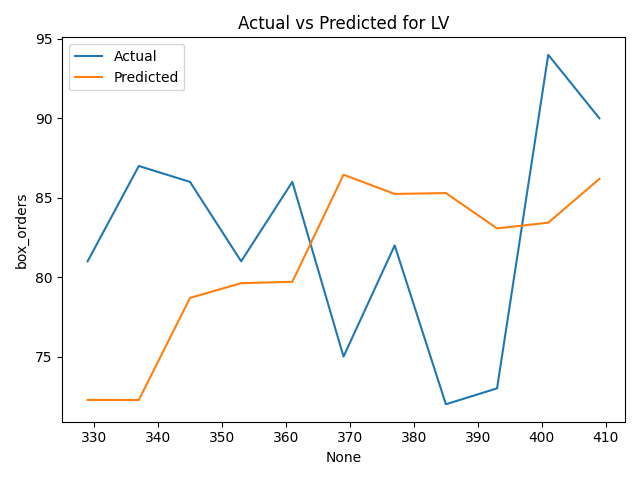
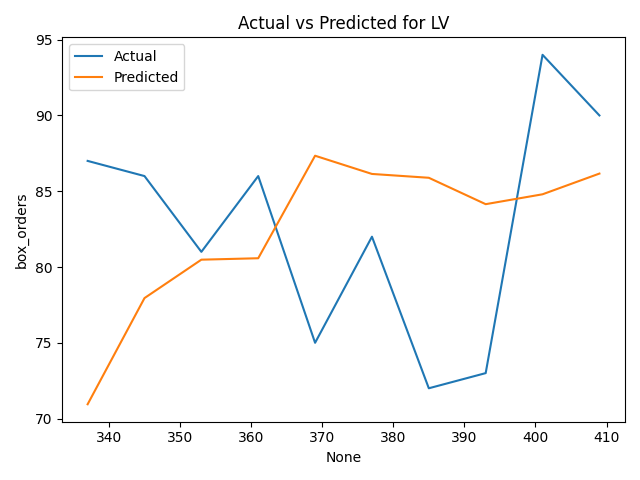
added dummy regressor

diff --git a/main.py b/main.py
@@ -168,7 +168,7 @@ def RF_forecast(df, box_types, features, target):
 
         # calculate rolling average of all features and target 1, 2, 4, 6, 8, 12 weeks ago without the current week
         # window_size = 2
-        for window_size in [1, 2, 4]:
+        for window_size in [1, 4]:
             df_i[f'{target}_rolling_mean_{window_size}w'] = df_i[target].shift(1).rolling(window=window_size, min_periods=1).mean()
             for feature in [x for x in features if x != 'week']:
                 # Ensure the feature column exists before trying to calculate rolling mean
@@ -189,7 +189,7 @@ def RF_forecast(df, box_types, features, target):
         test_df = df_i.iloc[int(len(df_i) * 0.8):]
 
         # train Random Forest regressor
-        rf_regressor = RandomForestRegressor(n_estimators=1000, random_state=42, max_depth=5)
+        rf_regressor = RandomForestRegressor(n_estimators=1000, random_state=42, max_depth=10)
         rf_regressor.fit(train_df[rolling_features + features].drop(columns=leaky_features).drop(columns='week'), train_df[target])
 
         # predict on test set
@@ -197,6 +197,12 @@ def RF_forecast(df, box_types, features, target):
 
         # also assign to predicted_box_orders
         test_df['predicted_box_orders'] = test_df['predicted_box_orders_' + box_type]
+
+        # add a dummy regressor equal to the shifted target
+        test_df['dummy_regressor'] = test_df[target].shift(1)
+
+        # drop na
+        test_df = test_df.dropna()
 
         # calculate MAE
         mae = mean_absolute_error(test_df[target], test_df['predicted_box_orders_' + box_type])
@@ -267,6 +273,7 @@ def RF_forecast(df, box_types, features, target):
     # plot actual vs predicted
     sns.lineplot(data=test_df_concat, x=test_df_concat.index, y=target, label='Actual')
     sns.lineplot(data=test_df_concat, x=test_df_concat.index, y='predicted_box_orders_concat', label='Predicted')
+    sns.lineplot(data=test_df_concat, x=test_df_concat.index, y='dummy_regressor', label='Dummy Regressor')
     plt.title('Actual vs Predicted for Concatenated Data')
     plt.tight_layout()
     plt.savefig('actual_vs_predicted_concat.png')
@@ -279,6 +286,29 @@ def RF_forecast(df, box_types, features, target):
     plt.tight_layout()
     plt.savefig('actual_vs_predicted_each_box_type.png')
     plt.close()
+
+    # plot actual vs predicted for each box type separately
+    for box_type in box_types:
+        test_data_i = test_df_concat[test_df_concat['boxType_' + box_type] == 1]
+        sns.lineplot(data=test_data_i, x=test_data_i.index, y=target, label='Actual')
+        sns.lineplot(data=test_data_i, x=test_data_i.index, y='predicted_box_orders_concat', label='Predicted')
+        plt.title('Actual vs Predicted for ' + box_type)
+        plt.tight_layout()
+        plt.savefig('actual_vs_predicted_concat_' + box_type + '.png')
+        plt.close()
+
+
+    # feature importance
+    importances = rf_regressor_concat.feature_importances_
+    feature_names = train_df_concat[rolling_features + box_type_features + features].drop(columns=leaky_features).drop(columns='week').columns.tolist()
+    feature_importances = pd.Series(importances, index=feature_names)
+    feature_importances = feature_importances.sort_values(ascending=False)
+    sns.barplot(x=feature_importances, y=feature_importances.index, orient='h')
+    plt.title('Feature Importances for Concatenated Data')
+    plt.tight_layout()
+    plt.savefig('feature_importances_concat.png')
+    plt.close()
+
 
 
     # also sns regplot of actual vs predicted concat
@@ -297,6 +327,13 @@ def RF_forecast(df, box_types, features, target):
     plt.title('Actual vs Predicted for Each Box Type')
     plt.tight_layout()
     plt.savefig('actual_vs_predicted_each_box_type_regplot.png')
+    plt.close()
+
+    # same for the dummy regressor
+    sns.regplot(data=test_df_concat, x = target, y = 'dummy_regressor')
+    plt.title('Actual vs Dummy Regressor for Concatenated Data')
+    plt.tight_layout()
+    plt.savefig('actual_vs_dummy_regressor_concat_regplot.png')
     plt.close()
 
 
